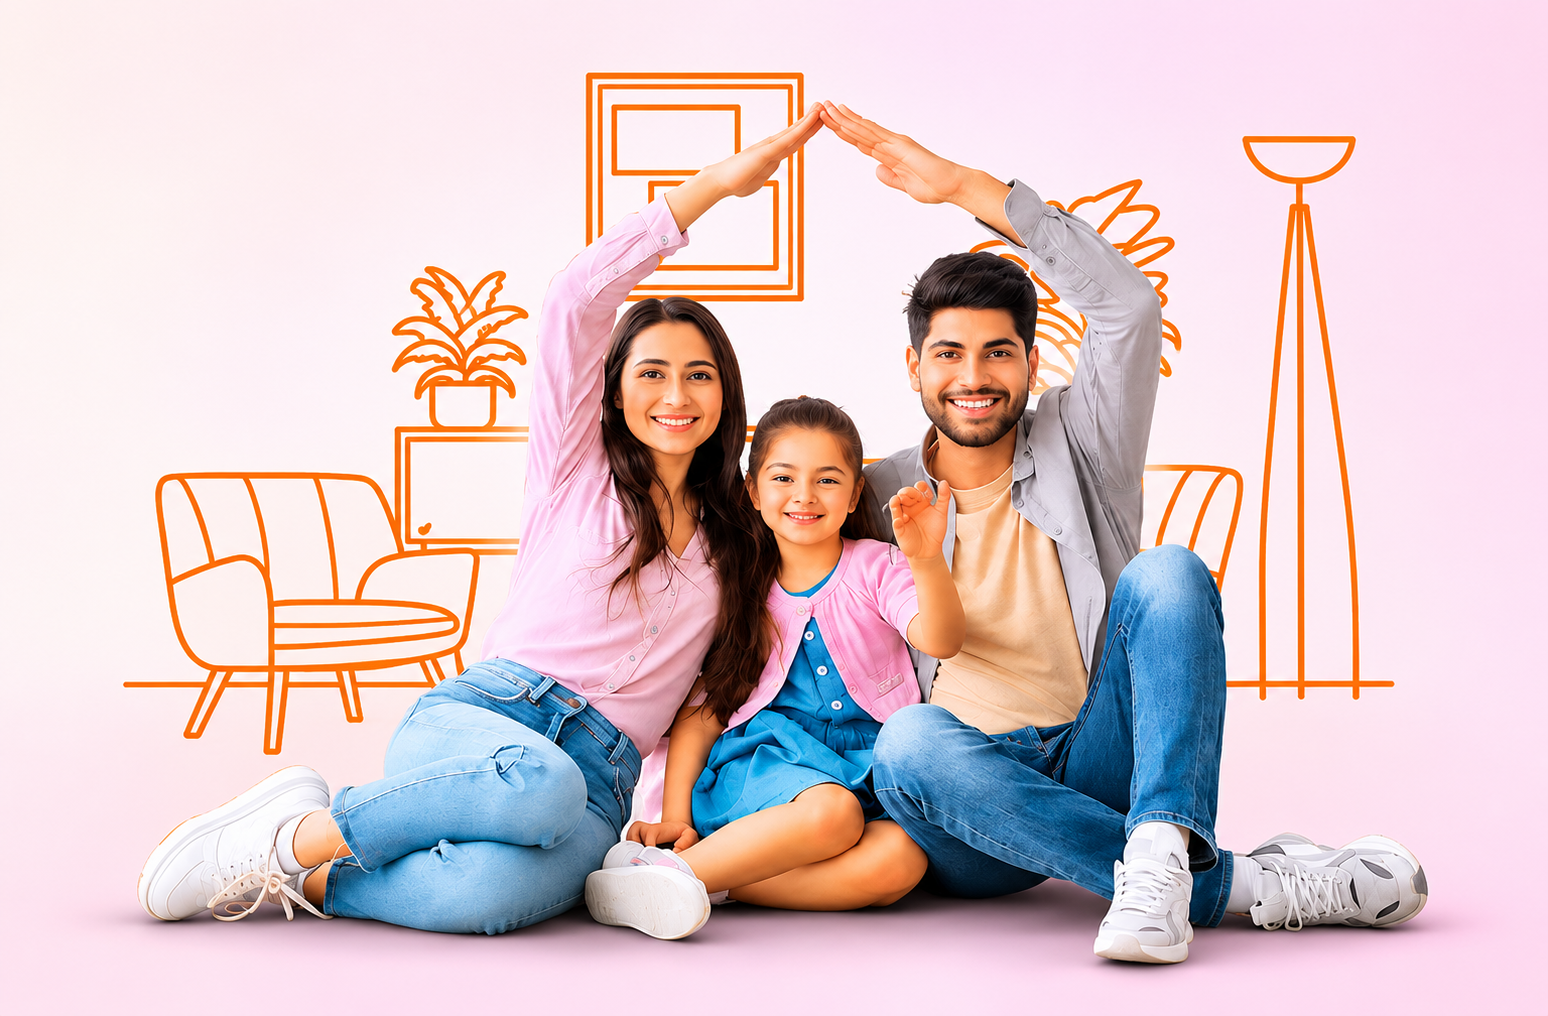
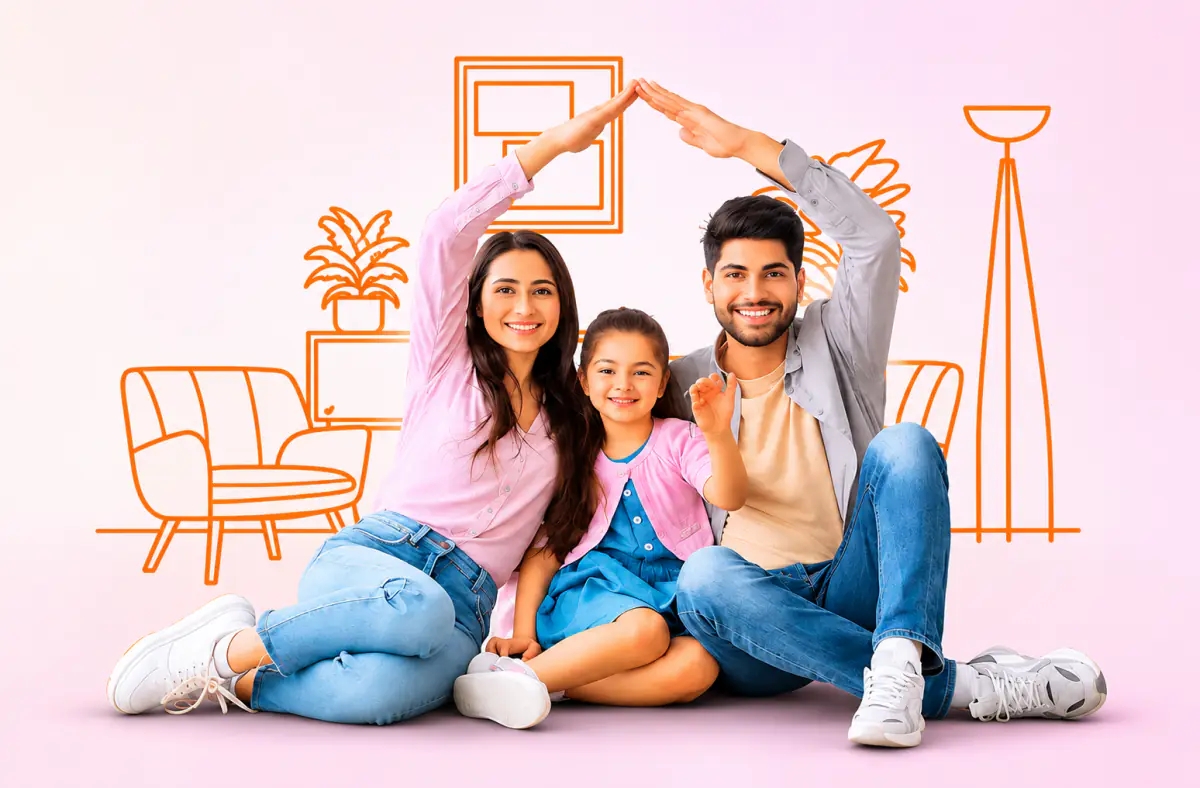
chnage the feedback

Changed region(s): [[0.4008, 0.2741, 0.4625, 0.3046], [0.2775, 0.335, 0.3083, 0.3655]]

diff --git a/components/FinZoraServices.tsx b/components/FinZoraServices.tsx
@@ -1,16 +1,8 @@
 import Image from "next/image";
 import categoryData from "@/data/category.json";
-import type { SiteData } from "@/data";
+import type { Service, SiteData } from "@/data";
 
 const siteData: SiteData = categoryData;
-
-type Service = {
-  title: string;
-  /** Optional second line of the heading, shown in red */
-  accent?: string;
-  description: string;
-  image: string;
-};
 
 const services: Service[] = siteData.services.items;
 
@@ -60,16 +52,19 @@ export default function FinZoraServices() {
               >
                 {/* Illustration */}
                 <div
-                  className={`relative mx-auto h-[300px] w-full max-w-[640px] sm:h-[400px] lg:mx-0 lg:h-[420px] lg:max-w-none ${
+                  className={`relative mx-auto flex items-center justify-center h-[300px] w-full max-w-[640px] sm:h-[400px] lg:mx-0 lg:h-[420px] lg:max-w-none ${
                     isReversed ? "lg:order-2" : ""
                   }`}
                 >
                   <Image
                     src={service.image}
                     alt={`${service.title} illustration`}
-                    fill
+                    width={1200}
+                    height={1200}
                     sizes="(max-width: 1024px) 90vw, 640px"
-                    className="object-contain object-center"
+                    className={`h-auto max-h-full w-auto max-w-full ${
+                      service.blendEdges ? "img-feather mix-blend-multiply" : ""
+                    }`}
                   />
                 </div>
 

diff --git a/components/FinZoraHero.tsx b/components/FinZoraHero.tsx
@@ -53,7 +53,7 @@ export default function FinZoraHero() {
   return (
     <section
       id="home"
-      className="relative isolate overflow-hidden bg-gradient-to-br from-[#fde0ea] via-[#fff1ec] to-[#fde0ec]"
+      className="relative isolate overflow-hidden bg-gradient-to-r from-[#fff4f3] via-[#fdeef3] to-[#fde1f1]"
     >
       <div className="mx-auto grid min-h-[560px] max-w-[1600px] items-center gap-6 px-5 py-12 sm:px-8 lg:min-h-[calc(100svh-96px)] lg:grid-cols-[1fr_1.05fr] lg:gap-[2vw] lg:px-[5.5vw] lg:py-0">
         {/* Left: text */}
@@ -73,16 +73,15 @@ export default function FinZoraHero() {
         </div>
 
         {/* Right: family image + doodles */}
-        <div className="hero-enter-right relative mx-auto h-[360px] w-full max-w-[640px] sm:h-[460px] lg:mx-0 lg:h-[min(520px,calc(100svh-160px))] lg:max-w-none">
-          <HomeDoodles />
-
+        <div className="hero-enter-right relative mx-auto flex h-[360px] w-full max-w-[640px] items-end justify-center sm:h-[460px] lg:mx-0 lg:h-[min(520px,calc(100svh-160px))] lg:max-w-none">
           <Image
             src={hero.image}
             alt={hero.imageAlt}
-            fill
+            width={1200}
+            height={788}
             priority
             sizes="(max-width: 1024px) 90vw, 700px"
-            className="object-contain object-bottom"
+            className="img-feather h-auto max-h-full w-auto max-w-full"
           />
         </div>
       </div>

diff --git a/app/globals.css b/app/globals.css
@@ -13,6 +13,24 @@ body {
   overflow-x: hidden;
 }
 
+/* Fade an opaque image's edges into the section behind it.
+   In the components layer so [--feather-*:x] utilities can override the defaults. */
+@layer components {
+  .img-feather {
+    --feather-x: 10%;
+    --feather-top: 10%;
+    --feather-bottom: 10%;
+    -webkit-mask-image:
+      linear-gradient(to right, transparent, #000 var(--feather-x), #000 calc(100% - var(--feather-x)), transparent),
+      linear-gradient(to bottom, transparent, #000 var(--feather-top), #000 calc(100% - var(--feather-bottom)), transparent);
+    -webkit-mask-composite: source-in;
+    mask-image:
+      linear-gradient(to right, transparent, #000 var(--feather-x), #000 calc(100% - var(--feather-x)), transparent),
+      linear-gradient(to bottom, transparent, #000 var(--feather-top), #000 calc(100% - var(--feather-bottom)), transparent);
+    mask-composite: intersect;
+  }
+}
+
 section[id] {
   scroll-margin-top: 96px;
 }

diff --git a/components/FinZoraFooter.tsx b/components/FinZoraFooter.tsx
@@ -155,7 +155,9 @@ export default function FinZoraFooter() {
                 <a
                   key={s.label}
                   href={s.href}
-                  aria-label={s.label}
+                  target="_blank"
+                  rel="noopener noreferrer"
+                  aria-label={`${s.label} (opens in a new tab)`}
                   className="grid h-[30px] w-[30px] place-items-center rounded-full border border-white/50 text-white transition hover:border-[#e0102f] hover:bg-[#e0102f]"
                 >
                   {s.icon}

diff --git a/data/index.ts b/data/index.ts
@@ -9,6 +9,8 @@ export type Service = {
   accent?: string;
   description: string;
   image: string;
+  /** Image has its own opaque background: feather its edges into the section */
+  blendEdges?: boolean;
 };
 
 export type Benefit = {
